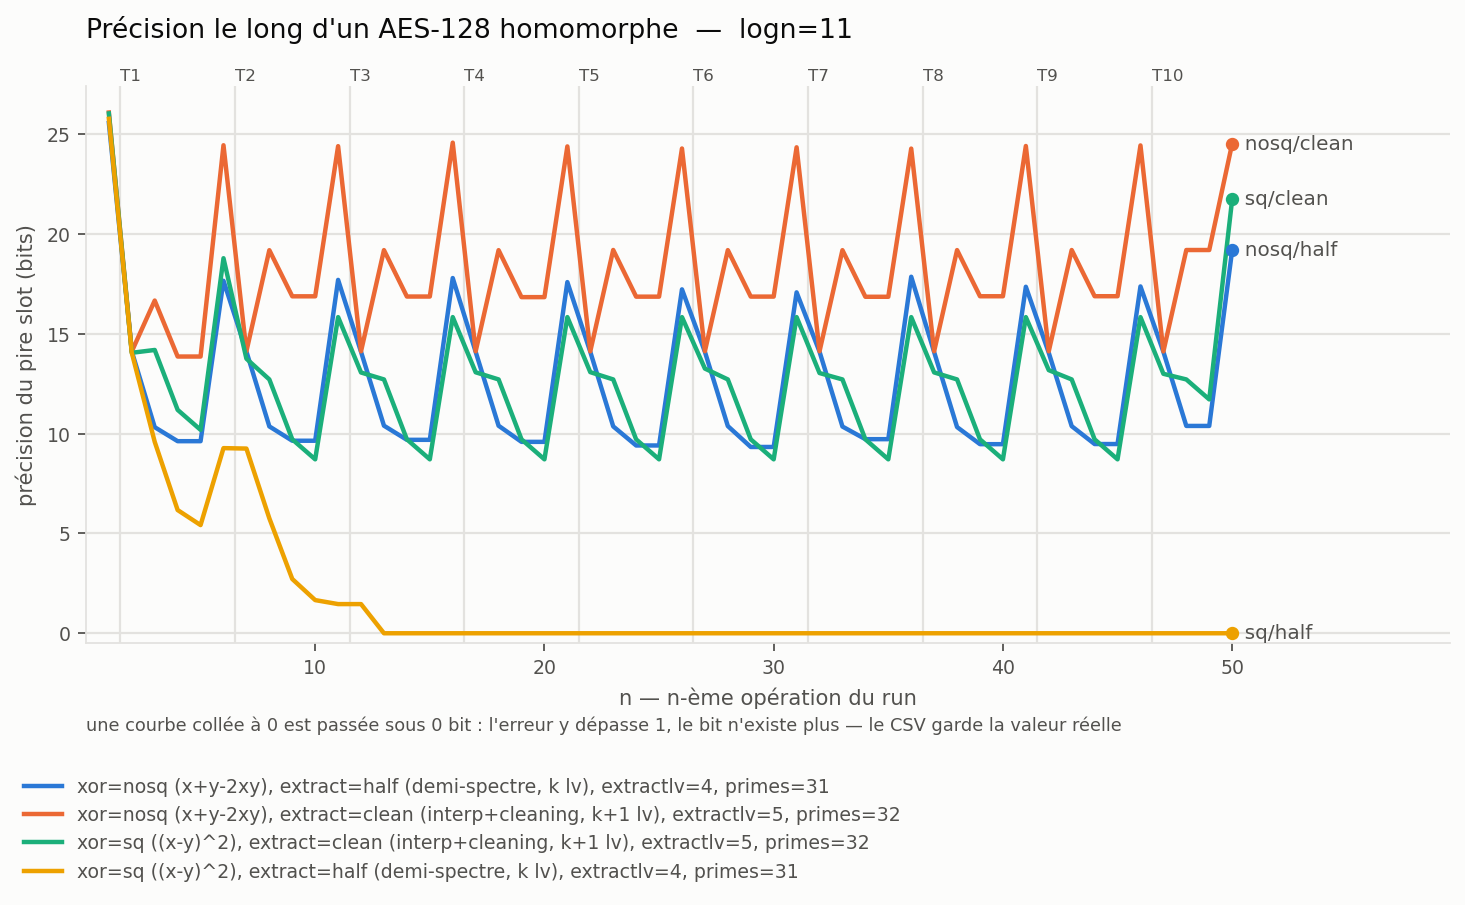
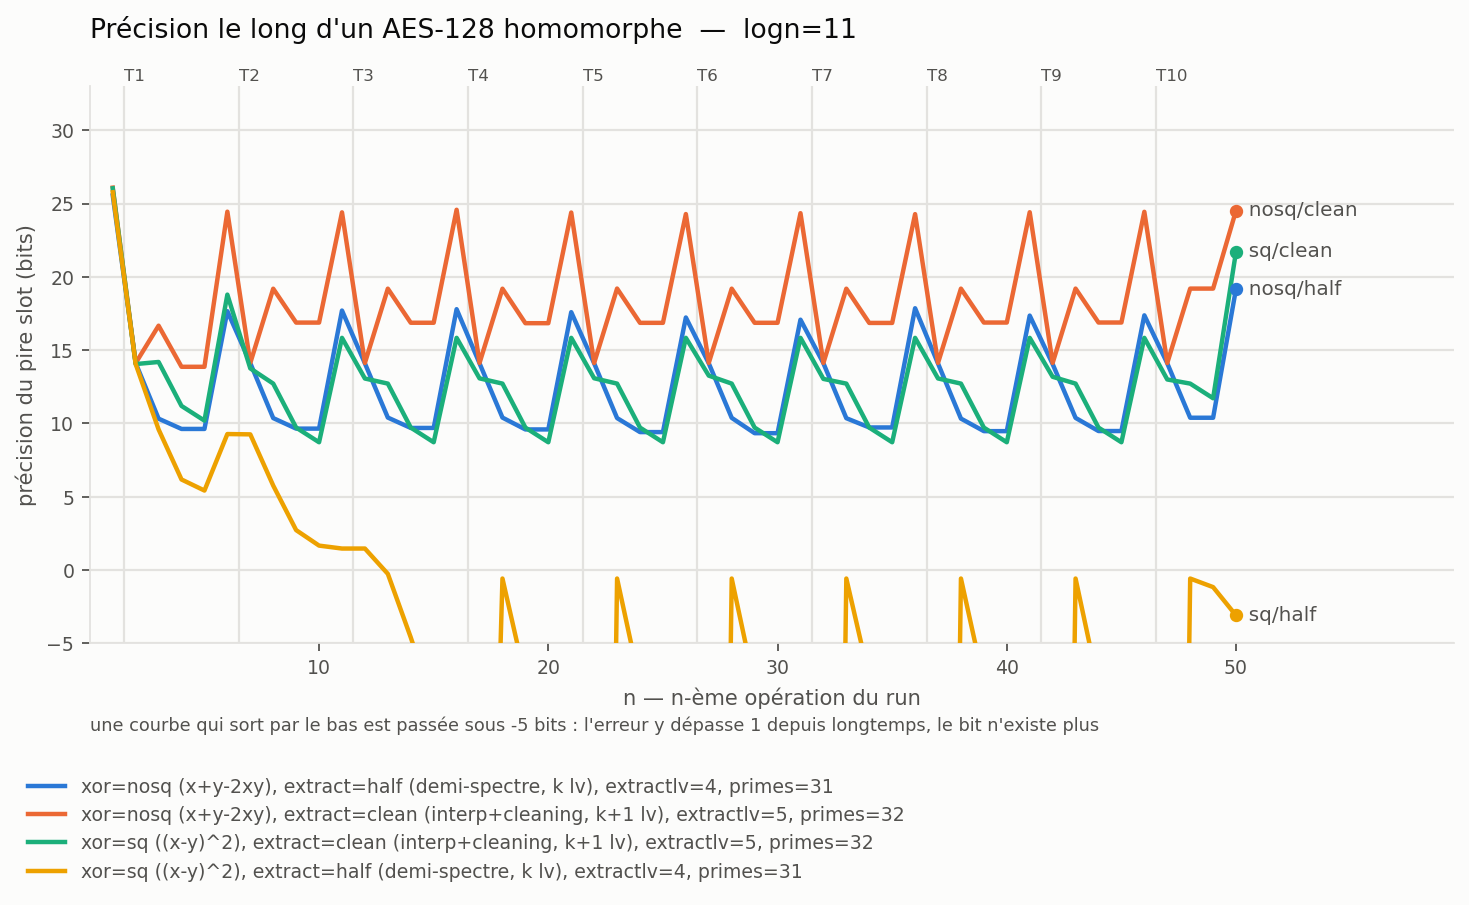
logs and plot

diff --git a/nathanfau/transciphering/aesplot/plot.py b/nathanfau/transciphering/aesplot/plot.py
@@ -36,6 +36,9 @@ INK = "#0b0b0b"
 INK_MUTED = "#52514e"
 GRID = "#e3e2df"
 
+# L'axe des ordonnées ne descend pas plus bas, quoi que fassent les données : voir set_ylim.
+FLOOR = -5.0
+
 # Ce qui définit une CONFIGURATION. `seed` en est exclue : sans -seed elle est tirée de l'horloge,
 # donc elle diffère à chaque run sans que rien de la configuration n'ait changé. Le label de légende
 # est construit sur les colonnes qui DIFFÈRENT entre les configurations retenues.
@@ -115,13 +118,6 @@ def draw(df, args, where):
         sys.exit(f"{len(runs)} runs pour {len(SERIES)} couleurs : filtre le fichier, "
                  "une 9e couleur ne serait plus distinguable")
 
-    # Sous 0 bit l'erreur dépasse 1 : le bit n'existe plus, et de COMBIEN il n'existe plus ne veut
-    # rien dire. Un run mort qui plonge à -110 écraserait tous les autres dans une bande illisible,
-    # donc on plafonne à 0 -- au TRACÉ seulement, le CSV garde les valeurs réelles. Le plancher est
-    # annoncé sous l'axe : une courbe collée à 0 est morte, pas juste mauvaise.
-    clamped = int((df.prec_min < 0).sum() + (args.avg and (df.prec_avg < 0).sum()))
-    df = df.assign(prec_min=df.prec_min.clip(lower=0), prec_avg=df.prec_avg.clip(lower=0))
-
     full, short = run_labels(df)
     fig, ax = plt.subplots(figsize=(11, 5.8), facecolor=SURFACE)
     ax.set_facecolor(SURFACE)
@@ -162,10 +158,14 @@ def draw(df, args, where):
         ax.spines[side].set_color(GRID)
     ax.tick_params(colors=INK_MUTED, labelsize=8.5)
 
-    ax.set_ylim(bottom=min(0, df.prec_min.min()) - 0.5)
-    if clamped:
-        ax.annotate("une courbe collée à 0 est passée sous 0 bit : l'erreur y dépasse 1, "
-                    "le bit n'existe plus — le CSV garde la valeur réelle",
+    # Les valeurs sont tracées telles quelles, mais l'axe ne descend pas sous FLOOR : sous 0 bit
+    # l'erreur dépasse 1, le bit n'existe plus, et de COMBIEN il n'existe plus ne veut rien dire.
+    # Un run qui plonge à -110 écraserait tous les autres dans une bande illisible.
+    lo = float(min(df.prec_min.min(), df.prec_avg.min() if args.avg else 0))
+    ax.set_ylim(bottom=max(FLOOR, lo - 0.5))
+    if lo < FLOOR:
+        ax.annotate(f"une courbe qui sort par le bas est passée sous {FLOOR:.0f} bits : "
+                    "l'erreur y dépasse 1 depuis longtemps, le bit n'existe plus",
                     xy=(0, -0.13), xycoords="axes fraction",
                     color=INK_MUTED, fontsize=8, ha="left", va="top")
 
@@ -176,6 +176,7 @@ def draw(df, args, where):
     placed = None
     for y, x, color, tag in sorted(ends):
         ax.plot([x], [y], marker="o", ms=5, color=color, zorder=4)
+        y = max(y0, min(y1, y))  # une courbe finie hors cadre garde son etiquette sur le bord
         if placed is not None and y - placed < gap:
             y = placed + gap
         placed = y
